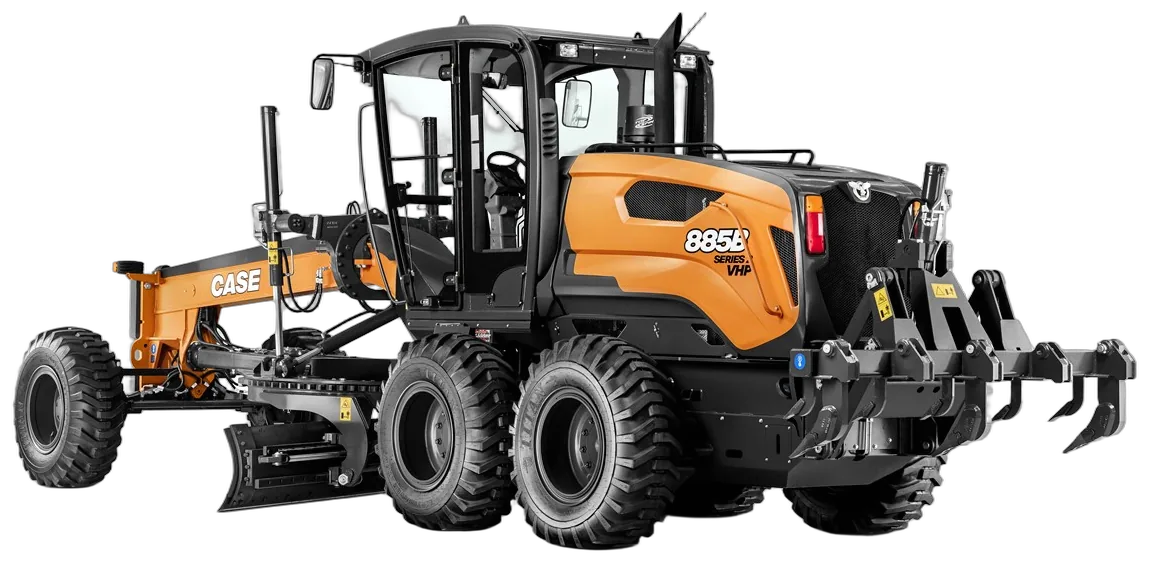
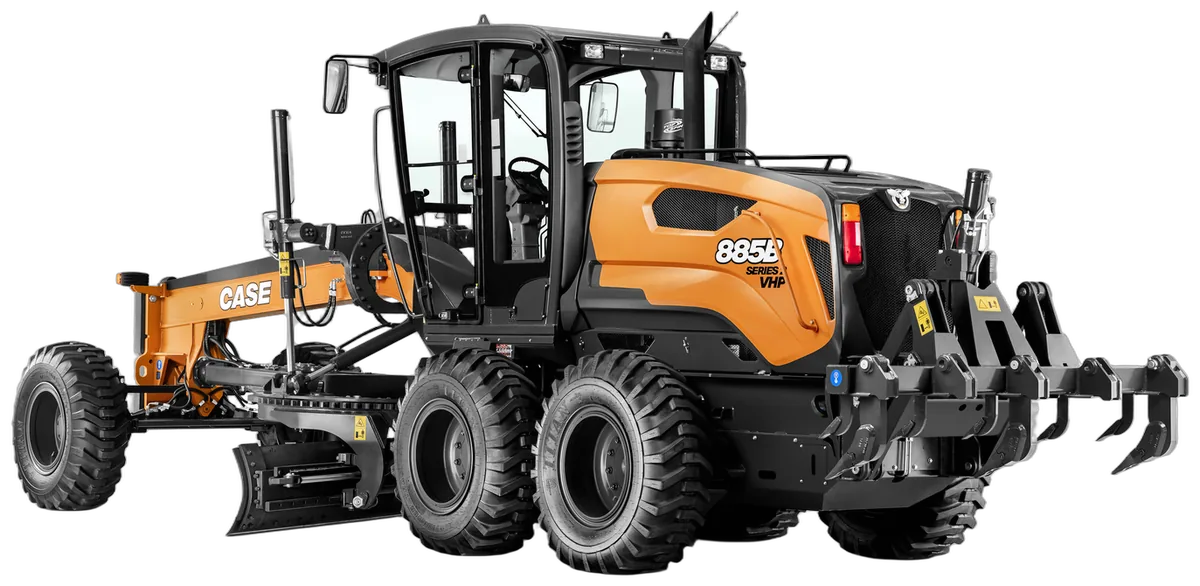
feat(case): 885B em alta resolução
O download em alta da 885B chegou depois do commit anterior, quando o portal
já bloqueava downloads automáticos. Substitui o preview de 1335 px.

## Mudanças
- 885B: 1335 px → 2400 px (original de 9009 px), mesmo ângulo
- tasks/todo.md: pendência da 845B ajustada. A foto em alta que o portal
  entregou para ela é traseira; o ângulo de três quartos que o site usa só
  saiu em preview de 1335 px

## Testes
- `npm run rebuild:site` ✓ · `verify:dist` ✓ · `launch-gate-smoke` ✓ 7 rotas
- 0 imagens quebradas no dist · revisão visual das duas motoniveladoras

diff --git a/tasks/todo.md b/tasks/todo.md
@@ -345,11 +345,12 @@ Aplicado nesta rodada (as 5 máquinas de baixa resolução do site):
 | 1150L | 460 px | 7360 px (reduzida a 2400) | CCE-IMG-11491 |
 | 2050M | 460 px | 7360 px (reduzida a 2400) | CCE-IMG-11499 |
 | 845B  | 1114 px | 1335 px | CCE-IMG-26411 |
-| 885B  | 1114 px | 1335 px | CCE-IMG-26501 |
+| 885B  | 1114 px | 9009 px (reduzida a 2400) | CCE-IMG-26501 |
 | SR175B | 1024 px | pendente | CCE-IMG-13186/13187/13188 |
 
 - [ ] SR175B: os 3 estúdio do portal não expõem URL de preview; baixar em alta
       pelo botão da página (o navegador passou a bloquear download automático).
-- [ ] 845B e 885B: existe versão em alta (~9 MB) no portal; hoje entrou o preview
-      de 1335 px, que já supera o anterior. Rebaixar em alta quando possível.
+- [x] 885B: versão em alta (9009 px) aplicada.
+- [ ] 845B: a foto em alta que o portal entregou é traseira; o ângulo certo
+      (CCE-IMG-26411) só saiu em preview de 1335 px. Rebaixar em alta.
 - [ ] Próximas rodadas: 2ª e 3ª foto por modelo (galeria) e folhetos técnicos em PDF.
